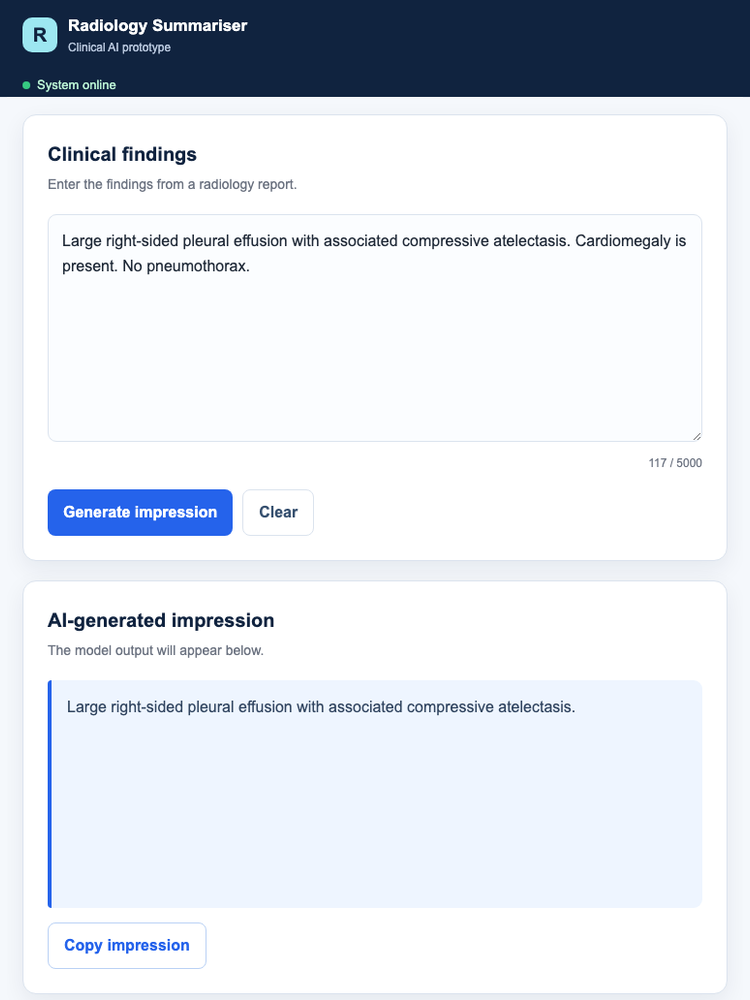
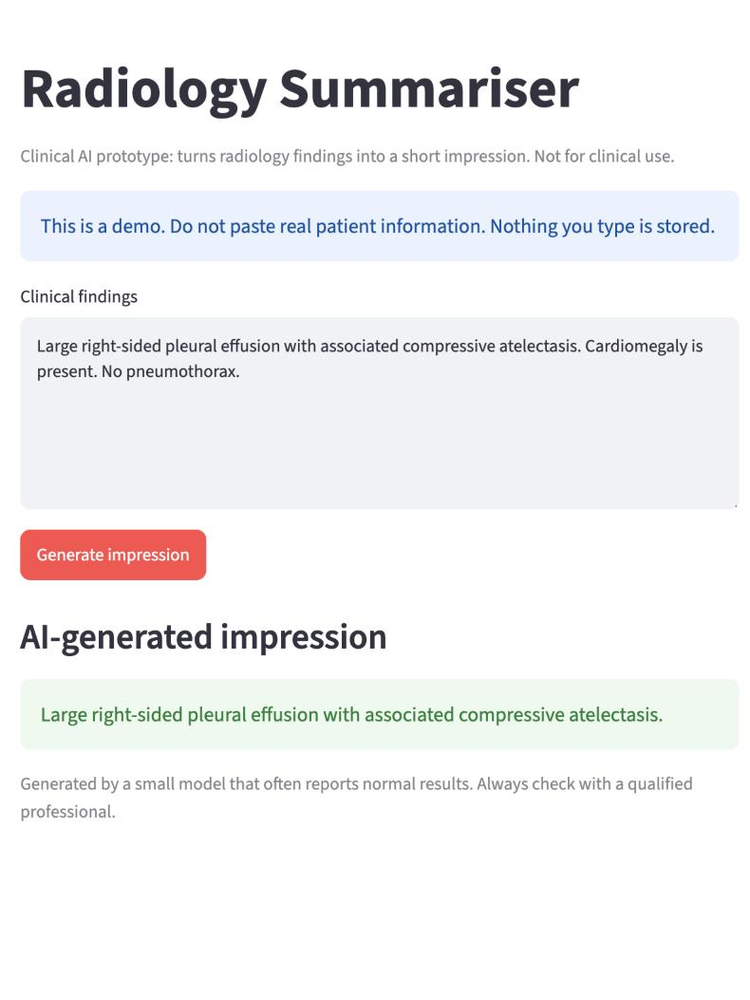
Move the radiology demo to Streamlit and add the threat modelling article
The Fly.io deployment is retired, so the Radiology Report Summariser now
points at radiology-summariser.streamlit.app. Its tags, case study,
results row and tech stack follow the move, and the card image is a fresh
capture of the Streamlit app rather than the old FastAPI interface.

All five live demos now sleep when idle, so the wake-up note is clearer
about the wait, repeated under the featured row, and added to each live
project's modal, where the page-level note is hidden behind the dialog.

Also adds the 20 October Medium article on threat modelling the three
demos, and drops Fly.io from the facts list and the technology grid.

diff --git a/index.html b/index.html
@@ -107,7 +107,7 @@
                 <ul>
                   <li><i class="bi bi-chevron-right"></i> <strong>Location:</strong> <span>Birmingham, United Kingdom</span></li>
                   <li><i class="bi bi-chevron-right"></i> <strong>Focus:</strong> <span>NLP, LLMs, RAG, classical ML</span></li>
-                  <li><i class="bi bi-chevron-right"></i> <strong>Deployment:</strong> <span>FastAPI, Streamlit, Docker, Fly.io</span></li>
+                  <li><i class="bi bi-chevron-right"></i> <strong>Deployment:</strong> <span>FastAPI, Streamlit, Docker, Hugging Face</span></li>
                   <li><i class="bi bi-chevron-right"></i> <strong>Live applications:</strong> <span>5, publicly usable</span></li>
                 </ul>
               </div>
@@ -450,12 +450,6 @@
             </div>
             <div class="col-6 col-sm-4 col-md-3 col-lg-2">
               <div class="tech-item">
-                <img src="assets/img/tech/flydotio.svg" alt="Fly.io logo" loading="lazy">
-                <span>Fly.io</span>
-              </div>
-            </div>
-            <div class="col-6 col-sm-4 col-md-3 col-lg-2">
-              <div class="tech-item">
                 <img src="assets/img/tech/sqlite.svg" alt="SQL / SQLite logo" loading="lazy">
                 <span>SQL / SQLite</span>
               </div>
@@ -579,11 +573,11 @@
                     <p class="eyebrow"><span class="featured-badge">Featured</span> Transformer NLP</p>
                     <h4>Radiology Report Summariser</h4>
                     <p class="summary">A transformer-based NLP prototype that turns the free-text findings of a chest X-ray report into a concise impression, using a fine-tuned T5 model.</p>
-                    <p class="tags">NLP &middot; Transformers &middot; T5 &middot; Text Summarisation &middot; Docker &middot; Fly.io</p>
+                    <p class="tags">NLP &middot; Transformers &middot; T5 &middot; Text Summarisation &middot; Streamlit &middot; Docker</p>
                   <p class="disclaimer"><i class="bi bi-exclamation-triangle"></i> Technical demonstration only. Not a medical device and not a clinical decision-support tool.</p>
                     <div class="card-actions">
                       <button type="button" class="act" data-bs-toggle="modal" data-bs-target="#modal-radiology"><i class="bi bi-info-circle"></i> Case study</button>
-                  <a href="https://radiology-summariser.fly.dev/" class="act primary" target="_blank" rel="noopener"><i class="bi bi-box-arrow-up-right"></i> Open live app</a>
+                  <a href="https://radiology-summariser.streamlit.app/" class="act primary" target="_blank" rel="noopener"><i class="bi bi-box-arrow-up-right"></i> Open live app</a>
 
                     </div>
                   </div>
@@ -592,6 +586,7 @@
             </article>
           </div><!-- End Featured Project -->
         </div>
+        <p class="note-line text-center mt-3 mb-0">Live demos are hosted free on Streamlit Community Cloud and go to sleep when nobody is using them. The first visit wakes the app, which can take a minute or two.</p>
 
         <h3 class="group-title mt-5" data-aos="fade-up">Additional projects</h3>
         <p class="group-note" data-aos="fade-up">Earlier and supporting work across NLP, computer vision, classical machine learning and AI governance.</p>
@@ -736,7 +731,7 @@
             </article>
           </div><!-- End Project Card -->
         </div>
-        <p class="note-line text-center mt-4 mb-0">Live applications are hosted on Streamlit Community Cloud and may take a few seconds to wake from sleep.</p>
+        <p class="note-line text-center mt-4 mb-0">Live demos are hosted free on Streamlit Community Cloud and go to sleep when nobody is using them. The first visit wakes the app, which can take a minute or two.</p>
       </div>
 
     </section><!-- /Projects Section -->
@@ -751,6 +746,23 @@
 
       <div class="container">
         <div class="row justify-content-center">
+          <div class="col-lg-10">
+            <article class="article-card" data-aos="fade-up" data-aos-delay="100">
+              <p class="eyebrow">Threat modelling</p>
+              <h3><a href="https://medium.com/@shivamkumar9076431/i-threat-modelled-my-own-ai-compliance-demos-my-privacy-tool-was-exposing-its-own-records-a5681d57711f" target="_blank" rel="noopener">I Threat Modelled My Own AI Compliance Demos. My Privacy Tool Was Exposing Its Own Records.</a></h3>
+              <p class="standfirst">What I found, what I fixed, and what I broke along the way</p>
+              <p class="meta">
+                <i class="bi bi-calendar3"></i> <time datetime="2026-10-20">20 October 2026</time>
+                <span class="dot">&middot;</span> 8 min read
+                <span class="dot">&middot;</span> Published on Medium
+              </p>
+              <p class="summary">READMEs are easy to write and hard to live up to. I threat modelled three of my own demos &mdash; the GDPR request classifier, the compliance chatbot and the radiology summariser &mdash; by drawing how data moves through each one, marking the points where it crosses a trust boundary and working through STRIDE at every one. The privacy tool came off worst: its history tab and CSV export were open to any visitor, while the README described them as restricted. It also mislabelled a plain deletion request as a subject access request. This piece walks through what I found, the fixes, the one fix that briefly took a demo down, and the lesson that cost me the most time &mdash; a fix is not a fix until it has been retested on the live app rather than on a laptop. Testing was limited to my own applications using invented data, and it is not a penetration test.</p>
+              <div class="topics"><span class="chip">Threat modelling</span><span class="chip">STRIDE</span><span class="chip">AI security</span><span class="chip">Data minimisation</span><span class="chip">Responsible AI</span></div>
+              <div class="card-actions">
+                <a href="https://medium.com/@shivamkumar9076431/i-threat-modelled-my-own-ai-compliance-demos-my-privacy-tool-was-exposing-its-own-records-a5681d57711f" class="act primary" target="_blank" rel="noopener"><i class="bi bi-box-arrow-up-right"></i> Read on Medium</a>
+              </div>
+            </article>
+          </div>
           <div class="col-lg-10">
             <article class="article-card" data-aos="fade-up" data-aos-delay="100">
               <p class="eyebrow">AI governance</p>
@@ -925,6 +937,7 @@
         <div class="modal-footer">
           <a href="https://rag-compliance-chatbot.streamlit.app/" class="act primary" target="_blank" rel="noopener"><i class="bi bi-box-arrow-up-right"></i> Open live app</a>
           <a href="https://github.com/ShivamKumar20-AI/rag-compliance-chatbot" class="act" target="_blank" rel="noopener"><i class="bi bi-github"></i> View the code</a>
+          <p class="note-line wake-note mb-0"><i class="bi bi-moon"></i> Hosted free on Streamlit Community Cloud. If nobody has used it recently the app will be asleep, and the first visit takes a minute or two to wake it.</p>
         </div>
       </div>
     </div>
@@ -973,6 +986,7 @@
         <div class="modal-footer">
           <a href="https://fifa-world-cup-predictor-2026.streamlit.app/" class="act primary" target="_blank" rel="noopener"><i class="bi bi-box-arrow-up-right"></i> Open live app</a>
           <a href="https://github.com/ShivamKumar20-AI/world-cup-predictor" class="act" target="_blank" rel="noopener"><i class="bi bi-github"></i> View the code</a>
+          <p class="note-line wake-note mb-0"><i class="bi bi-moon"></i> Hosted free on Streamlit Community Cloud. If nobody has used it recently the app will be asleep, and the first visit takes a minute or two to wake it.</p>
         </div>
       </div>
     </div>
@@ -1045,7 +1059,7 @@
               <div>
               <div class="result-row"><span>ROUGE-1 F1</span><strong>0.450 on 543 test reports</strong></div>
               <div class="result-row"><span>Model</span><strong>T5-small, fine-tuned</strong></div>
-              <div class="result-row"><span>Deployment</span><strong>Docker on Fly.io, CI/CD</strong></div>
+              <div class="result-row"><span>Deployment</span><strong>Streamlit Community Cloud</strong></div>
               </div>
             </div>
           </div>
@@ -1059,15 +1073,16 @@
             <h6>What it demonstrates</h6>
             <p>Transformer fine-tuning, sequence-to-sequence summarisation, ROUGE evaluation, containerisation and automated deployment.</p>
             <h6>Deployment</h6>
-            <p>FastAPI with a browser interface and a POST /get_summary endpoint, containerised with Docker and deployed to Fly.io in London, with deployment wired to GitHub Actions.</p>
+            <p>A Streamlit application on Streamlit Community Cloud, loading the fine-tuned model from a private Hugging Face repository at start-up. The FastAPI service, the POST /get_summary endpoint and the Dockerfile from the earlier container deployment are kept in the codebase.</p>
             <h6>Limitations and next steps</h6>
             <p>ROUGE-1 F1 is 0.450 across all 543 held-out reports (ROUGE-2 0.343, ROUGE-L 0.446). The model leans towards reporting a normal study and misses consolidation: of 65 test reports whose impression mentions consolidation, pneumonia, airspace disease or an infiltrate, only 15 generated impressions mention any of those. Next steps: balance the training data, measure sensitivity for specific findings alongside ROUGE, and try a larger or clinically pre-trained model.</p>
 
           <h6>Tech stack</h6>
-          <div><span class="chip">Python</span><span class="chip">PyTorch</span><span class="chip">Hugging Face Transformers</span><span class="chip">T5</span><span class="chip">FastAPI</span><span class="chip">Docker</span><span class="chip">Fly.io</span><span class="chip">GitHub Actions</span></div>
+          <div><span class="chip">Python</span><span class="chip">PyTorch</span><span class="chip">Hugging Face Transformers</span><span class="chip">T5</span><span class="chip">Streamlit</span><span class="chip">FastAPI</span><span class="chip">Docker</span></div>
         </div>
         <div class="modal-footer">
-          <a href="https://radiology-summariser.fly.dev/" class="act primary" target="_blank" rel="noopener"><i class="bi bi-box-arrow-up-right"></i> Open live app</a>
+          <a href="https://radiology-summariser.streamlit.app/" class="act primary" target="_blank" rel="noopener"><i class="bi bi-box-arrow-up-right"></i> Open live app</a>
+          <p class="note-line wake-note mb-0"><i class="bi bi-moon"></i> Hosted free on Streamlit Community Cloud. If nobody has used it recently the app will be asleep, and the first visit takes a minute or two to wake it.</p>
         </div>
       </div>
     </div>
@@ -1109,6 +1124,7 @@
         <div class="modal-footer">
           <a href="https://gdpr-classifier.streamlit.app/" class="act primary" target="_blank" rel="noopener"><i class="bi bi-box-arrow-up-right"></i> Open live app</a>
           <a href="https://github.com/ShivamKumar20-AI/gdpr-classifier" class="act" target="_blank" rel="noopener"><i class="bi bi-github"></i> View the code</a>
+          <p class="note-line wake-note mb-0"><i class="bi bi-moon"></i> Hosted free on Streamlit Community Cloud. If nobody has used it recently the app will be asleep, and the first visit takes a minute or two to wake it.</p>
         </div>
       </div>
     </div>
@@ -1149,6 +1165,7 @@
         </div>
         <div class="modal-footer">
           <a href="https://visual-clothing-recommendations.streamlit.app/" class="act primary" target="_blank" rel="noopener"><i class="bi bi-box-arrow-up-right"></i> Open live app</a>
+          <p class="note-line wake-note mb-0"><i class="bi bi-moon"></i> Hosted free on Streamlit Community Cloud. If nobody has used it recently the app will be asleep, and the first visit takes a minute or two to wake it.</p>
         </div>
       </div>
     </div>

diff --git a/assets/css/custom.css b/assets/css/custom.css
@@ -543,3 +543,14 @@
 
 /* Compact cards keep the full portrait tile rather than clipping mid-content */
 .portfolio .compact-card .shot-frame img { aspect-ratio: 3 / 4; }
+
+/* Wake-from-sleep note inside a project modal footer */
+.project-modal .modal-footer .wake-note {
+  flex: 0 0 100%;
+  margin-top: 6px;
+  display: flex;
+  align-items: flex-start;
+  gap: 7px;
+  line-height: 1.5;
+}
+.project-modal .modal-footer .wake-note i { margin-top: 2px; flex-shrink: 0; }
